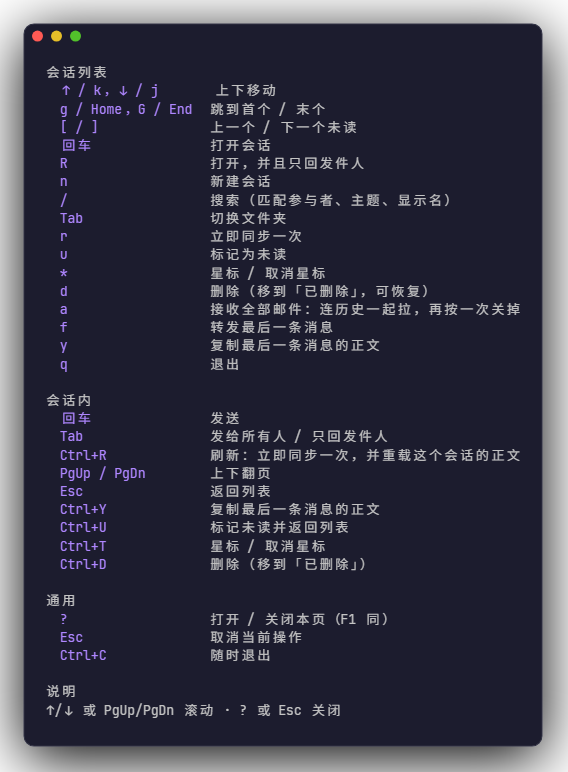
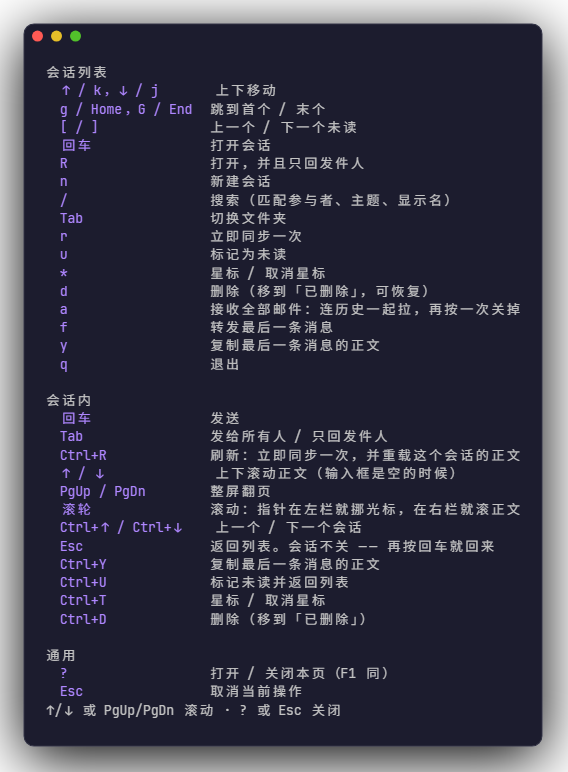
docs: 按键表与截图跟着滚动/焦点那轮更新
README 的「Inside a conversation」那张表还在写 `Esc | Back to list` 和
`PgUp/PgDn | Scroll` —— 描述的是刚被改掉的行为。补上 Ctrl+↑/↓、滚轮、
↑/↓ 三行，并把 Esc 那行改成实话（会话不关，再按回车就回来），
外加一句滚动条的说明。

四张截图重出：帮助页和会话页的内容都变了。04-help 在上一次生成之后
逐字节不变（e7c18b085e031aeb），正好顺带证明了后续几处改动
（滚轮的模式白名单、帮助页收敛抽成方法）没有碰到任何画面。

diff --git a/README.md b/README.md
@@ -370,14 +370,21 @@ message — every action uses a `Ctrl` combination instead.
 | `Enter` | Send |
 | `Tab` | Reply-all / reply-to-sender |
 | `Ctrl+R` | Refresh: sync once now, and re-read this conversation's bodies |
-| `PgUp` / `PgDn` | Scroll |
-| `Esc` | Back to list |
+| `↑` / `↓` | Scroll the conversation (when the input box is empty) |
+| `PgUp` / `PgDn` | Scroll a screen |
+| Wheel | Scrolls whatever the pointer is over: the list cursor on the left, the conversation on the right |
+| `Ctrl+↑` / `Ctrl+↓` | Previous / next conversation |
+| `Esc` | Back to list. The conversation stays open — `Enter` returns to it |
 | `Ctrl+Y` | Copy last message body |
 | `Ctrl+U` | Mark unread and go back |
 | `Ctrl+T` | Star / unstar |
 | `Ctrl+D` | Delete |
 | `F1` | Help |
 | `Ctrl+C` | Quit |
+
+A scroll bar appears on the right edge of the conversation once it is longer
+than one screen — which is also the answer to "is this thing scrollable at
+all?".
 
 ## FAQ
 
